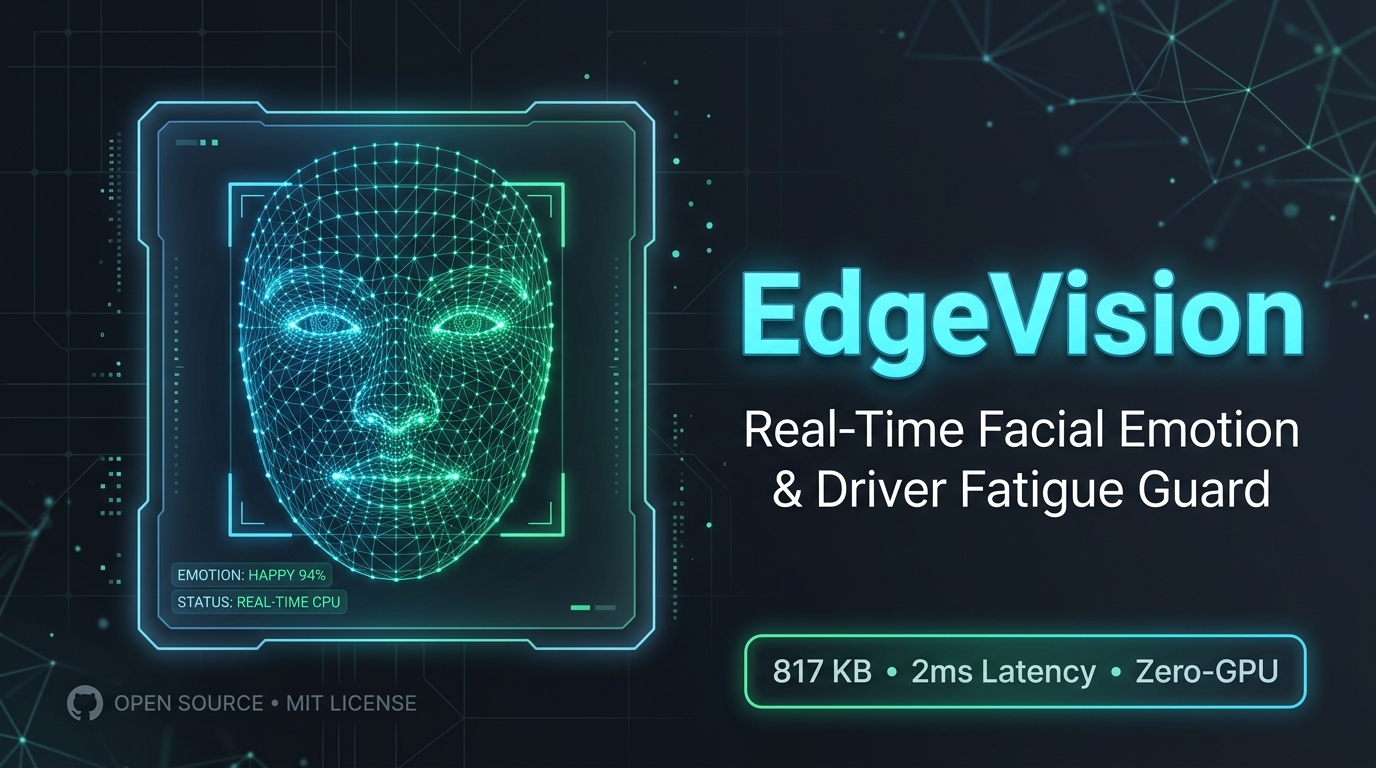
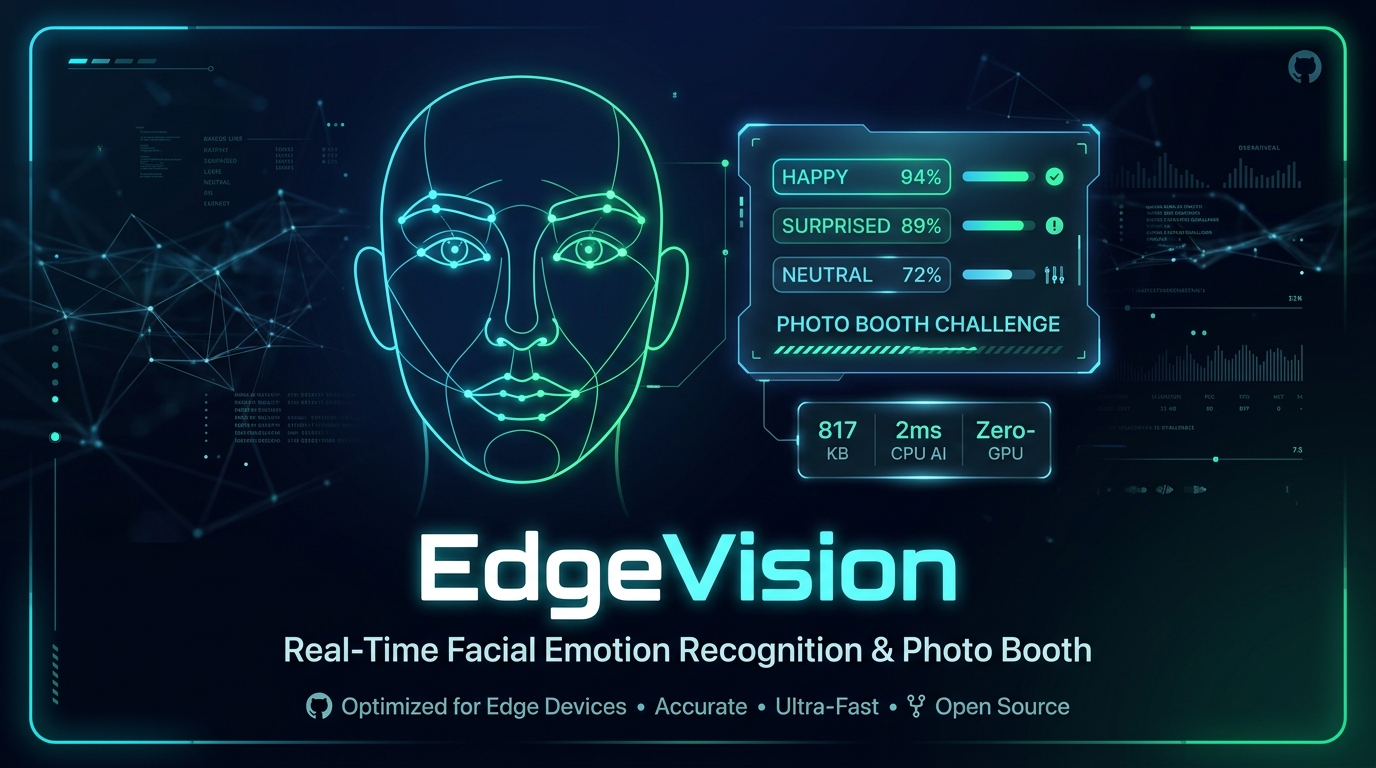
docs: refocus repo on Facial Emotion Recognition and Gamified Photo Booth

diff --git a/scripts/generate_demo_gif.py b/scripts/generate_demo_gif.py
@@ -1,14 +1,12 @@
 """
 Utility script to generate an animated demo GIF (assets/demo.gif)
-simulating real-time emotion tracking, photo booth progression,
-and drowsiness detection using the project's MiniXception model.
+simulating real-time emotion tracking and the 7-emotion photo booth challenge.
 """
 
 import os
 import cv2
 import numpy as np
 from PIL import Image, ImageDraw, ImageFont
-import tensorflow as tf
 
 def build_demo_gif(output_path="assets/demo.gif"):
     print("Generating animated demo GIF...")
@@ -38,7 +36,7 @@ def build_demo_gif(output_path="assets/demo.gif"):
         ("disgust.jpg", "Disgust", 0.75, (230, 126, 34)),
     ]
 
-    # Part 1: Simulate Photo Booth Emotion Progression (15 frames)
+    # Part 1: Simulate Photo Booth Emotion Progression (14 frames)
     unlocked = []
     for step, (img_name, emotion, conf, color) in enumerate(sample_emotions, 1):
         unlocked.append(emotion)
@@ -48,7 +46,7 @@ def build_demo_gif(output_path="assets/demo.gif"):
         else:
             face_img = Image.new("RGB", (180, 180), color=(40, 45, 55))
 
-        # Repeat each emotion 2 frames for smooth viewing
+        # 2 frames per emotion
         for sub in range(2):
             img = Image.new("RGB", (w, h), color=(15, 18, 24))
             draw = ImageDraw.Draw(img)
@@ -60,7 +58,6 @@ def build_demo_gif(output_path="assets/demo.gif"):
 
             # Left: Simulated Video Feed Box
             draw.rectangle([16, 52, 340, 340], fill=(26, 32, 42), outline=(50, 60, 75), width=2)
-            # Paste face centered in video feed
             img.paste(face_img, (88, 100))
 
             # Bounding box with emotion color
@@ -97,53 +94,43 @@ def build_demo_gif(output_path="assets/demo.gif"):
 
             frames.append(img)
 
-    # Part 2: Simulate Driver Fatigue Guard (4 frames)
-    for alert_cycle in range(3):
-        for is_alert in [True, False]:
-            img = Image.new("RGB", (w, h), color=(15, 18, 24))
-            draw = ImageDraw.Draw(img)
+    # Part 2: Challenge Complete & Generated Photo Strip Showcase (4 frames)
+    strip_path = os.path.join("assets", "sample_photo_strip.png")
+    strip_img = None
+    if os.path.exists(strip_path):
+        strip_raw = Image.open(strip_path).convert("RGB")
+        strip_img = strip_raw.resize((560, 260), Image.Resampling.LANCZOS)
 
-            # Header
-            draw.rectangle([0, 0, w, 40], fill=(35, 20, 20) if is_alert else (22, 27, 36))
-            draw.text((16, 10), "👁 Driver Fatigue & Drowsiness Guard (MediaPipe EAR)", fill=(255, 90, 90) if is_alert else (0, 230, 255), font=font_large)
+    for i in range(4):
+        img = Image.new("RGB", (w, h), color=(15, 18, 24))
+        draw = ImageDraw.Draw(img)
 
-            # Left Video feed with Face Landmark simulation
-            draw.rectangle([16, 52, 340, 340], fill=(26, 32, 42), outline=(200, 50, 50) if is_alert else (50, 60, 75), width=2)
-            if os.path.exists("assets/samples/neutral.jpg"):
-                neut = Image.open("assets/samples/neutral.jpg").convert("RGB").resize((180, 180))
-                img.paste(neut, (88, 100))
+        # Header
+        draw.rectangle([0, 0, w, 40], fill=(22, 40, 32))
+        draw.text((16, 10), "🎉 CHALLENGE COMPLETED! 7 OF 7 EMOTIONS UNLOCKED", fill=(46, 204, 113), font=font_large)
+        draw.text((w - 180, 12), "Grade: PERFECT! 🏆", fill=(255, 215, 0), font=font_main)
 
-            # Eye landmark overlay indicators
-            draw.ellipse([135, 160, 155, 165], fill=(255, 50, 50) if is_alert else (0, 230, 255))
-            draw.ellipse([205, 160, 225, 165], fill=(255, 50, 50) if is_alert else (0, 230, 255))
+        # Showcase the Photo Strip in the center
+        if strip_img is not None:
+            img.paste(strip_img, (40, 60))
+            draw.rectangle([38, 58, 602, 322], outline=(0, 230, 255), width=2)
+        else:
+            draw.rectangle([40, 60, 600, 320], fill=(30, 36, 46))
+            draw.text((180, 180), "📸 Downloadable Emotion Photo Strip Ready", fill=(0, 230, 255), font=font_large)
 
-            if is_alert:
-                # Big flashing warning
-                draw.rectangle([20, 150, 336, 210], fill=(200, 20, 20))
-                draw.text((45, 168), "⚠ DROWSINESS DETECTED!", fill=(255, 255, 255), font=font_large)
+        # Bottom Bar
+        draw.rectangle([0, 345, w, h], fill=(20, 24, 32))
+        draw.text((40, 360), "📸 1-Click Exportable Retro Photo Strip  •  100% In-Memory Privacy", fill=(180, 190, 205), font=font_main)
+        draw.text((w - 180, 360), "⭐ Star on GitHub", fill=(0, 230, 255), font=font_main)
 
-            # Right Telemetry
-            draw.rectangle([356, 52, w - 16, 340], fill=(20, 24, 32), outline=(40, 48, 62), width=1)
-            draw.text((370, 70), "DRIVER TELEMETRY", fill=(255, 255, 255), font=font_large)
-            draw.text((370, 110), "Eye Aspect Ratio (EAR):", fill=(180, 190, 205), font=font_main)
-            draw.text((370, 135), "0.14" if is_alert else "0.31", fill=(255, 75, 75) if is_alert else (46, 204, 113), font=font_large)
-            draw.text((430, 140), "(Threshold: < 0.22)", fill=(120, 130, 145), font=font_small)
+        frames.append(img)
 
-            draw.text((370, 180), "Closed Frame Counter:", fill=(180, 190, 205), font=font_main)
-            draw.text((370, 205), "24 frames (ALERT)" if is_alert else "0 frames (NORMAL)", fill=(255, 75, 75) if is_alert else (46, 204, 113), font=font_large)
-
-            draw.text((370, 260), "MediaPipe Face Landmarker", fill=(0, 230, 255), font=font_small)
-            draw.text((370, 280), "478 3D Landmarks • Real-Time", fill=(120, 130, 145), font=font_small)
-
-            draw.text((16, 365), "⚡ CPU-only monitoring with zero cloud dependencies", fill=(120, 140, 165), font=font_small)
-            frames.append(img)
-
-    # Save as animated GIF (duration=350ms per frame, loop indefinitely)
+    # Save as animated GIF (duration=400ms per frame, loop indefinitely)
     frames[0].save(
         output_path,
         save_all=True,
         append_images=frames[1:],
-        duration=380,
+        duration=420,
         loop=0,
         optimize=True
     )

diff --git a/docs/launch_playbook.md b/docs/launch_playbook.md
@@ -25,49 +25,49 @@ Deploying a live interactive demo is the single highest-converting action for Gi
 ## 💬 2. Reddit Playbook
 
 ### A. r/Python
-* **Title:** `I built a real-time, CPU-only emotion recognition photo booth and fatigue monitor in Python (817 KB model, zero GPU required)`
+* **Title:** `I built a real-time, CPU-only emotion recognition photo booth in Python (817 KB model, ~2ms latency, zero GPU required)`
 * **Flair:** `Project` or `Showcase`
 * **Body:**
 ```markdown
 Hey everyone! 👋
 
-I wanted to share **EdgeVision**, an open-source computer vision pipeline I built to run real-time facial emotion recognition and driver fatigue monitoring entirely on everyday laptop CPUs.
+I wanted to share **EdgeVision**, an open-source computer vision project I built to run real-time facial emotion recognition entirely on everyday laptop CPUs.
 
-Most facial emotion models rely on heavy ResNet or VGG backbones that chew through battery and struggle without a discrete GPU. I wanted to see how far a lightweight architecture could be pushed for real-time edge use.
+Most facial emotion models rely on heavy ResNet or VGG backbones (50MB–200MB+) that chew through battery and struggle without a discrete GPU. I wanted to see how far a compact architecture could be pushed for real-time edge use with zero lag.
 
-### ⚡ Key Engineering Details:
+### ⚡ Key Features:
 * **817 KB MiniXception Architecture:** Depthwise separable convolutions keep total parameters down to just 51,255.
 * **~2 ms CPU Inference:** The forward pass is graph-compiled (`tf.function`), costing ~2 ms per face crop and ~5 ms for a full 640×480 frame on a standard Ryzen/Intel CPU.
+* **7-Emotion Photo Booth Challenge:** A gamified Gradio interface that tracks your peak expressions (Happy, Surprise, Neutral, Angry, Fear, Sad, Disgust) above a 25% floor and generates a downloadable photo strip.
 * **Temporal Smoothing:** Consecutive frames use Exponential Moving Average (EMA) smoothing to eliminate label jitter and flicker.
-* **Driver Drowsiness Guard:** Uses Google's MediaPipe Face Landmarker (478 3D landmarks) to calculate the Eye Aspect Ratio (EAR) and sound warnings when eyes remain closed.
-* **7-Emotion Photo Booth Challenge:** A gamified Gradio interface that tracks your peak expressions above a 25% floor and generates a downloadable photo strip.
 * **Explainable AI (Grad-CAM):** Visualizes activation heatmaps from the final residual block to show which facial regions triggered the prediction.
+* **Local Personal Dataset Builder:** Opt-in tool to save crops and fine-tune the model to your own face and lighting with guardrailed regression testing.
 
-The repository includes a Gradio web app (`app.py`), an OpenCV desktop webcam pipeline (`demo.py`), and a standalone fatigue monitor (`monitor.py`).
+The repository includes a Gradio web app (`app.py`), an OpenCV desktop webcam pipeline (`demo.py`), and a bonus fatigue monitor demo (`monitor.py`).
 
 * **GitHub:** https://github.com/shahin13700/fer-emotion-recognition
 * **License:** MIT
 
-Would love to hear your feedback, feature ideas, or pull requests! If you find it useful, a star on GitHub is always appreciated! ⭐
+Would love to hear your feedback, feature ideas, or pull requests! If you find it fun or useful, a star on GitHub is always appreciated! ⭐
 ```
 
 ---
 
 ### B. r/ComputerVision
-* **Title:** `[P] EdgeVision: Real-time 817KB MiniXception CNN (51k params, 2ms CPU latency) for FER and Driver Drowsiness`
+* **Title:** `[P] EdgeVision: Real-time 817KB MiniXception CNN (51k params, 2ms CPU latency) for Facial Emotion Recognition & Grad-CAM`
 * **Flair:** `Project`
 * **Body:**
 ```markdown
 Hi r/ComputerVision,
 
-I've open-sourced **EdgeVision**, a CPU-optimized pipeline combining real-time facial expression recognition (FER) with eye-aspect-ratio (EAR) fatigue monitoring.
+I've open-sourced **EdgeVision**, a CPU-optimized pipeline for real-time facial expression recognition (FER) with temporal smoothing and Grad-CAM interpretability.
 
 ### Technical Highlights:
 1. **Model Architecture:** MiniXception with 4 residual depthwise-separable convolution blocks, global average pooling, and softmax output. Total size: 817 KB (51,255 weights).
 2. **Training & Regularization:** Trained on FER2013 with class-balanced weighting (to address severe disgust/fear underrepresentation), batch normalization, and L2 regularization (0.01).
 3. **Temporal Stability:** Rather than raw frame-by-frame argmax, predictions pass through an Exponential Moving Average (EMA) filter ($\alpha = 0.35$) with exponential confidence decay when no face is tracked.
-4. **Driver Fatigue Guard:** MediaPipe FaceLandmarker Tasks API extracts 16 eyelid landmarks to measure Euclidean distances for Eye Aspect Ratio (EAR). Sustained closure for >20 frames triggers an audible/visual alarm.
-5. **Grad-CAM Interpretability:** Computes gradients of the target class score with respect to the final 3×3 feature map, upsampled to the input crop for localization.
+4. **Grad-CAM Interpretability:** Computes gradients of the target class score with respect to the final 3×3 feature map, upsampled to the input crop for localization.
+5. **Interactive Gamification:** Wraps the pipeline into a 7-Emotion Photo Booth challenge (built with Gradio) that tracks peak expressions and exports an emotion photo strip.
 
 Repository & code: https://github.com/shahin13700/fer-emotion-recognition
 
@@ -78,7 +78,7 @@ Feedback on edge quantization (INT8/TFLite/ONNX) or alternative dataset benchmar
 
 ## 🍊 3. Hacker News ("Show HN")
 
-* **Title:** `Show HN: EdgeVision – Real-time 817KB facial emotion recognition and fatigue guard`
+* **Title:** `Show HN: EdgeVision – Real-time 817KB facial emotion recognition & photo booth`
 * **URL:** `https://github.com/shahin13700/fer-emotion-recognition`
 * **First Comment (Post immediately after submission):**
 ```markdown
@@ -90,10 +90,10 @@ A common issue with facial emotion recognition demos is that they either require
 
 EdgeVision solves this using:
 1. An 817 KB MiniXception CNN (51k params) that runs in ~2ms per face on a laptop CPU.
-2. Exponential Moving Average (EMA) smoothing across frames to stabilize predictions.
-3. MediaPipe Face Landmarker for real-time Eye Aspect Ratio (EAR) driver drowsiness detection.
-4. An interactive 7-Emotion Photo Booth challenge built with Gradio that renders a downloadable retro-style photo strip when you unlock all expressions.
-5. Strict local privacy: webcam frames are processed entirely in memory; saving is disabled by default on shared servers.
+2. Exponential Moving Average (EMA) smoothing across frames to eliminate label jitter.
+3. An interactive 7-Emotion Photo Booth challenge built with Gradio that renders a downloadable retro-style photo strip when you unlock all expressions.
+4. Explainable AI via Grad-CAM activation heatmaps showing which facial features drove each prediction.
+5. Strict local privacy: webcam frames are processed entirely in memory; saving is disabled by default on shared deployments.
 
 Code and pre-trained weights (MIT): https://github.com/shahin13700/fer-emotion-recognition
 
@@ -104,28 +104,28 @@ Looking forward to your thoughts and critique!
 
 ## 💼 4. LinkedIn Post
 
-* **Media to attach:** Short 10–15s screen recording of the Photo Booth or Driver Monitor in action.
+* **Media to attach:** Short 10–15s screen recording of the Photo Booth challenge in action.
 * **Text:**
 ```text
-Excited to open-source EdgeVision 🎭 — a lightweight, zero-GPU Computer Vision pipeline for real-time Facial Emotion Recognition and Driver Fatigue Monitoring!
+Excited to open-source EdgeVision 🎭 — a lightweight, zero-GPU Computer Vision pipeline for real-time Facial Emotion Recognition!
 
-Most deep learning vision models require discrete GPUs or external cloud APIs. EdgeVision is designed for edge efficiency:
+Most deep learning vision models require discrete GPUs or heavy cloud infrastructure. EdgeVision is designed for edge efficiency:
 
 🔹 817 KB model footprint (51,255 parameters using MiniXception)
 🔹 ~2 ms CPU inference per face crop (tested on standard laptop CPUs)
-🔹 Dual-purpose: 7-emotion expression tracking + MediaPipe Eye Aspect Ratio (EAR) driver drowsiness detection
-🔹 EMA temporal smoothing to eliminate frame flicker
 🔹 Gamified Gradio Photo Booth challenge with downloadable emotion photo strips
+🔹 EMA temporal smoothing to eliminate frame flicker and label jitter
 🔹 Explainable AI powered by Grad-CAM activation heatmaps
+🔹 Guardrailed active learning to adapt the model to personal lighting and camera conditions
 
 Everything is 100% open-source under the MIT license.
 
-Check out the code, pre-trained weights, and documentation on GitHub:
+Check out the code, pre-trained weights, and interactive demo on GitHub:
 👉 https://github.com/shahin13700/fer-emotion-recognition
 
 If you like the project or are interested in edge AI and computer vision, feel free to drop a star! ⭐
 
-#ComputerVision #MachineLearning #DeepLearning #Python #AI #EdgeAI #OpenSource #TensorFlow #MediaPipe
+#ComputerVision #MachineLearning #DeepLearning #Python #AI #EdgeAI #OpenSource #TensorFlow #Gradio
 ```
 
 ---
@@ -134,7 +134,7 @@ If you like the project or are interested in edge AI and computer vision, feel f
 
 * **Tweet 1 (with video attached):**
 ```text
-I built an 817 KB neural network that runs real-time facial emotion recognition & driver fatigue detection on any cheap CPU with zero GPU lag. ⚡
+I built an 817 KB neural network that runs real-time facial emotion recognition on any laptop CPU with zero GPU lag. ⚡
 
 Meet EdgeVision 🎭 — featuring an interactive 7-emotion photo booth challenge!
 
@@ -144,11 +144,11 @@ Meet EdgeVision 🎭 — featuring an interactive 7-emotion photo booth challeng
 ```text
 Key specs:
 • 51,255 params (MiniXception architecture)
-• ~2ms CPU latency per face
-• MediaPipe Eye Aspect Ratio (EAR) drowsiness alerts
+• ~2ms CPU latency per face (no GPU needed)
+• Gamified 7-emotion photo booth challenge
 • EMA temporal smoothing (no label flickering)
 • Grad-CAM explainability heatmaps
-• Built with @Gradio & @GoogleMediaPipe
+• Built with @Gradio & TensorFlow
 
 GitHub: https://github.com/shahin13700/fer-emotion-recognition
 ```
@@ -156,7 +156,7 @@ GitHub: https://github.com/shahin13700/fer-emotion-recognition
 ```text
 Try beating all 7 emotions in the Photo Booth challenge: Happy, Surprise, Neutral, Angry, Disgust, Sad, Fear!
 
-It tracks your peak expressions and exports a downloadable photo strip. 📸
+It tracks your peak expressions and exports a downloadable retro photo strip. 📸
 
-Star on GitHub if you find it helpful! ⭐
+Star on GitHub if you find it cool! ⭐
 ```

diff --git a/README.md b/README.md
@@ -10,22 +10,21 @@ pinned: false
 license: mit
 ---
 
-# 🎭 EdgeVision: Real-Time Facial Emotion & Driver Fatigue Guard
+# 🎭 EdgeVision: Real-Time Facial Emotion Recognition & Gamified Photo Booth
 
 [![CI](https://github.com/shahin13700/fer-emotion-recognition/actions/workflows/ci.yml/badge.svg)](https://github.com/shahin13700/fer-emotion-recognition/actions)
 [![License: MIT](https://img.shields.io/badge/License-MIT-yellow.svg)](https://opensource.org/licenses/MIT)
 [![Python](https://img.shields.io/badge/Python-3.11-blue.svg)](https://www.python.org/)
 [![TensorFlow](https://img.shields.io/badge/TensorFlow-2.16-FF6F00?logo=tensorflow&logoColor=white)](https://tensorflow.org/)
-[![MediaPipe](https://img.shields.io/badge/MediaPipe-1.0-007ACC?logo=google&logoColor=white)](https://developers.google.com/mediapipe)
 [![Gradio](https://img.shields.io/badge/Gradio-Web%20App-orange?logo=gradio)](https://gradio.app/)
 [![Model Size](https://img.shields.io/badge/Model%20Size-817%20KB-brightgreen)]()
 [![Stars](https://img.shields.io/github/stars/shahin13700/fer-emotion-recognition?style=social)](https://github.com/shahin13700/fer-emotion-recognition)
 
-A lightweight, CPU-only computer vision pipeline for **real-time facial emotion recognition**, a **gamified photo booth**, and **driver drowsiness monitoring**. No GPU required.
+A lightweight, CPU-only computer vision pipeline for **real-time facial emotion recognition**, an interactive **7-emotion photo booth challenge**, and **Grad-CAM explainability**. No GPU required.
 
 ![EdgeVision Real-Time Demo](assets/demo.gif)
 
-Powered by a compact **MiniXception CNN** (51,255 parameters, 817 KB) trained on FER2013 with class-balanced weights, stabilized by **Exponential Moving Average (EMA) temporal smoothing**, and paired with the **Google MediaPipe Face Landmarker** (478 landmarks, Tasks API) for eye-closure detection.
+Powered by a compact **MiniXception CNN** (51,255 parameters, 817 KB) trained on FER2013 with class-balanced weights, stabilized by **Exponential Moving Average (EMA) temporal smoothing**, and wrapped in an interactive **Gradio** web application.
 
 ---
 
@@ -37,7 +36,7 @@ Powered by a compact **MiniXception CNN** (51,255 parameters, 817 KB) trained on
 | **Hardware Required** | Discrete GPU recommended | **Low-power CPU** | Runs on laptops, Raspberry Pi, edge |
 | **Per-Face Latency** | 25 – 60 ms | **~2 ms** | Zero perceptible lag |
 | **Temporal Stability** | Unsmoothed (flickers frame-to-frame) | **EMA Temporal Smoothing** | Smooth, consistent emotion labels |
-| **Driver Safety** | Emotion only | **MediaPipe Fatigue Monitor (EAR)** | Dual-purpose: expression + drowsiness |
+| **Explainable AI** | Black-box output | **Grad-CAM Saliency Maps** | Visualizes which facial regions drove predictions |
 | **Interactive UX** | Plain bounding boxes | **Gamified 7-Emotion Photo Booth** | Interactive challenge + downloadable strip |
 | **Privacy First** | Frequently server-bound | **100% Local / In-Memory** | Zero biometric uploads |
 
@@ -47,12 +46,12 @@ Powered by a compact **MiniXception CNN** (51,255 parameters, 817 KB) trained on
 
 - ⚡ **Fast CPU Inference:** Depthwise separable convolutions keep the model at 51k parameters. The forward pass is graph-compiled (`tf.function`), so a face costs **~2 ms** and a full 640×480 frame (Haar detection + classification) **~5 ms** on a desktop CPU (measured on a Ryzen 5000; your webcam and browser will bound the real frame rate).
 - 📸 **7-Emotion Photo Booth Challenge:** Interactive webcam challenge with **peak expression tracking**: any emotion scored above a 25% floor is captured, and each slot upgrades whenever you beat your personal best. Produces a downloadable **Emotion Photo Strip**. Only the largest (primary) face in frame is tracked, so bystanders never end up in your strip.
-- 💾 **Local Personal Dataset Builder:** Opt-in saving of your captured faces to `dataset/user_contributed/` (with an append-only `metadata.jsonl`) so you can adapt the model to your camera, lighting, and face. Labels default to the model's own top prediction (self-training), so the booth has a **relabel** control to correct them before saving; each capture is saved exactly once. **Automatically disabled on Hugging Face Spaces** so visitors' faces are never written to a shared server.
-- 🛡 **Guardrailed Fine-Tuning (`fine_tune.py`):** Trains on the exact tight crops the model classified (no train/serve skew), blends them into every batch with augmentation (FER2013 share class-balanced, your faces unweighted), ignores byte-identical duplicates, requires ≥10 unique faces per class, and holds out 20% of your faces. By default only the classifier head is trainable (`--train_scope head|last_block|all`, BatchNorm always frozen). A candidate is promoted only if it does not regress on your held-out faces, loses at most 1 pp accuracy and macro-F1 on FER2013, and no single class loses more than 3 pp recall. Previous weights are always backed up. **Expect rejections:** the shipped checkpoint sits at a val-accuracy optimum, and in every proxy trial (FER2013 images standing in for a user) continued training lowered Sad recall by 5–12 pp, which the gate refuses. Loosen `--max_class_drop` only if you knowingly accept that trade for personalization, and judge runs by the held-out-faces number.
-- 👁 **Fatigue & Drowsiness Guard:** Real-time **Eye Aspect Ratio (EAR)** from MediaPipe landmarks flags sustained eye closure. Uses the current MediaPipe Tasks API (`FaceLandmarker`); the ~3.7 MB landmark model is downloaded to `model/` on first run.
-- 🎯 **Temporal Smoothing:** EMA across consecutive frames in every live path (Gradio webcam tabs, `demo.py`, `monitor.py`, uploaded videos) reduces label flicker.
-- 🧠 **Explainable AI (Grad-CAM):** Coarse activation maps showing which region of the face drove a prediction.
-- 🌐 **Interactive Web App (Gradio):** Photo booth, live webcam, video upload, and still-image tabs, ready for **Hugging Face Spaces**.
+- 🧠 **Explainable AI (Grad-CAM):** Coarse activation maps generated from the final residual block showing which regions of the face contributed most to a prediction.
+- 🎯 **Temporal Smoothing:** Exponential Moving Average (EMA) across consecutive frames in every live path (Gradio webcam tabs, `demo.py`, uploaded videos) eliminates label jitter and flicker.
+- 💾 **Local Personal Dataset Builder:** Opt-in saving of your captured faces to `dataset/user_contributed/` (with an append-only `metadata.jsonl`) so you can adapt the model to your camera, lighting, and face. Labels default to the model's own top prediction (self-training), with a **relabel** control to correct them before saving. **Automatically disabled on Hugging Face Spaces** so visitors' faces are never written to a shared server.
+- 🛡 **Guardrailed Fine-Tuning (`fine_tune.py`):** Trains on the exact tight crops the model classified (no train/serve skew), blends them into every batch with augmentation, requires ≥10 unique faces per class, and holds out 20% of your faces. Promotes candidate weights only if they do not regress on your held-out faces and preserve benchmark accuracy.
+- 🌐 **Interactive Web App (Gradio):** Multi-modal web application featuring the Photo Booth, live webcam, video upload, and still-image analysis tabs.
+- 🚗 **Bonus Application Demo (`monitor.py`):** Demonstrates an automotive safety use case by pairing the emotion model with Google MediaPipe Face Landmarker (478 3D landmarks) for real-time Eye Aspect Ratio (EAR) driver fatigue detection.
 
 ### 📸 Photo Booth Session Strip
 The strip below was generated by the shipped code with the seven benchmark fallback faces (hence the `(SAMPLE)` tags). Sample tiles deliberately show no confidence number, because the model does not necessarily predict that emotion for them (see the Grad-CAM gallery); a live session shows your own captures with their real scores:
@@ -119,7 +118,7 @@ pip install -r requirements.txt
   python demo.py
   ```
 
-* **Driver Fatigue & Drowsiness Guard (MediaPipe):**
+* **Bonus Application — Driver Fatigue & Drowsiness Guard (MediaPipe):**
   ```bash
   python monitor.py    # downloads model/face_landmarker.task (3.7 MB) on first run, or set EDGEVISION_LANDMARKER_PATH
   ```
